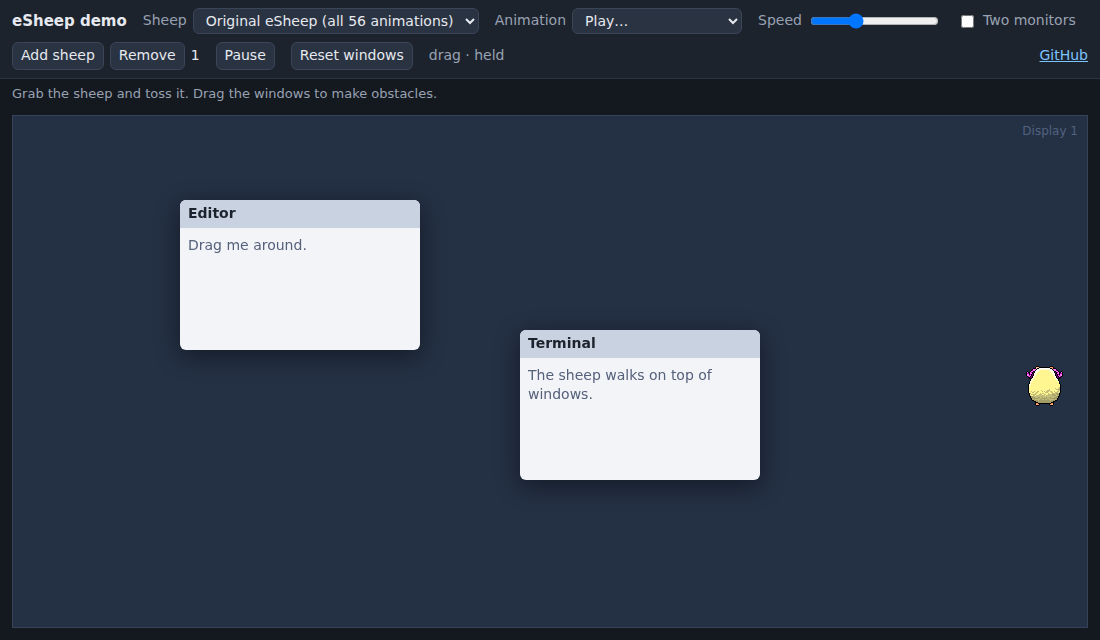
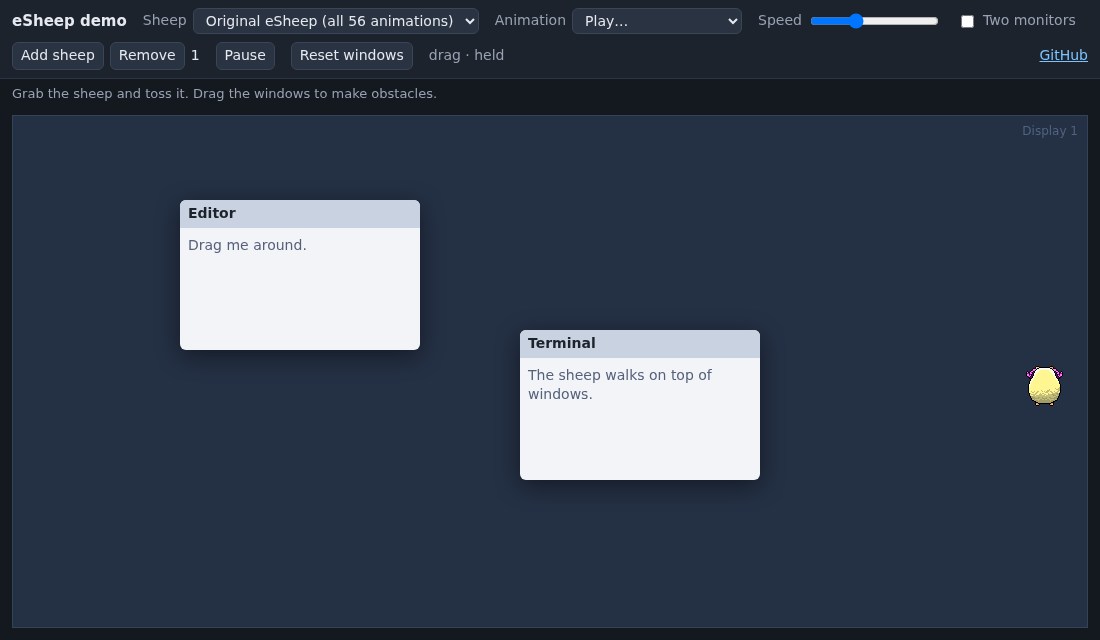
feat: size each sheep window to its sprite

diff --git a/src/web/stage.ts b/src/web/stage.ts
@@ -23,7 +23,10 @@ import {
 import { moveDrag, releaseVelocity, startDrag, type Drag, type Point } from '../core/pointer.js';
 
 /** Size of the transparent window / canvas the sheep is drawn into. */
+/** The bounce sheep's window is a fixed square. */
 export const WINDOW = 128;
+/** Transparent margin around a classic sprite, so tossed pixels are never clipped at the edge. */
+export const PAD = 6;
 /** Classic packs: on-screen px per source px. */
 export const SCALE = 1; // native pixels: the classic art is 40 px and looks wrong blown up
 
@@ -52,6 +55,8 @@ export interface Snapshot {
 }
 
 export interface Stage {
+  /** Side of the square window the sheep draws into (sprite plus a small margin). */
+  windowSize(): number;
   /** Advance by `dtMs` of (unscaled) wall time, redraw and reposition. */
   tick(dtMs: number): void;
   /** True if the canvas pixel at (x, y) is part of the sheep (used for click-through). */
@@ -83,6 +88,8 @@ interface Brain {
   play?(name: string, world: World): void;
   animations?(): string[];
   readonly pad: number;
+  /** Side of the square window / canvas this sheep draws into. */
+  readonly win: number;
 }
 
 const classicBrain = (o: StageOptions, pack: ClassicPack): Brain => {
@@ -90,12 +97,14 @@ const classicBrain = (o: StageOptions, pack: ClassicPack): Brain => {
   const tw = o.sheetSize.width / pack.tilesX;
   const th = o.sheetSize.height / pack.tilesY;
   const cfg: Config = { size: Math.round(tw * SCALE), scale: SCALE };
-  const pad = (WINDOW - cfg.size) / 2;
+  const pad = PAD;
+  const win = cfg.size + 2 * PAD;
   const first = spawn(cp, o.getWorld(), cfg, o.seed);
   let s: SheepState = first.state;
 
   return {
     pad,
+    win,
     pos: () => ({ x: s.x, y: s.y }),
     step: (dtMs, world, prefs) => {
       const others = o.getOthers?.() ?? [];
@@ -113,11 +122,11 @@ const classicBrain = (o: StageOptions, pack: ClassicPack): Brain => {
       s = release(cp, s, world, cfg, v.vx, v.vy).state;
     },
     draw: (ctx) => {
-      ctx.clearRect(0, 0, WINDOW, WINDOW);
+      ctx.clearRect(0, 0, win, win);
       ctx.save();
       ctx.globalAlpha = s.opacity;
       if (s.flipped) {
-        ctx.translate(WINDOW, 0);
+        ctx.translate(win, 0);
         ctx.scale(-1, 1);
       }
       ctx.drawImage(
@@ -150,6 +159,7 @@ const bounceBrain = (o: StageOptions): Brain => {
 
   return {
     pad: 0,
+    win: WINDOW,
     pos: () => ({ x: s.x, y: s.y }),
     step: (dtMs, world, prefs) => {
       const r = bounceUpdate(s, world, WINDOW, prefs.speed, Math.min(dtMs, 50) / 1000);
@@ -192,10 +202,18 @@ export const createStage = (o: StageOptions): Stage => {
     const p = brain.pos();
     o.place(Math.round(p.x - brain.pad), Math.round(p.y - brain.pad));
   };
+  // Size the canvas to the sheep (resizing resets the context, so smoothing is switched off after).
+  const canvas = o.ctx.canvas as HTMLCanvasElement | undefined;
+  if (canvas) {
+    canvas.width = brain.win;
+    canvas.height = brain.win;
+    o.ctx.imageSmoothingEnabled = false;
+  }
   brain.draw(o.ctx);
   place();
 
   return {
+    windowSize: () => brain.win,
     tick: (dtMs) => {
       if (paused) return;
       if (brain.step(dtMs, o.getWorld(), o.getPrefs())) o.onSound?.();

diff --git a/tests/e2e/app.spec.ts b/tests/e2e/app.spec.ts
@@ -47,22 +47,20 @@ test.afterEach(async () => {
 test.describe('sheep window', () => {
   test('is a small, transparent, always-on-top, click-through window', async () => {
     await sheepPage();
-    const info = await app.evaluate(({ BrowserWindow }) => {
-      const w = BrowserWindow.getAllWindows()[0];
-      return {
-        ...w.getBounds(),
-        onTop: w.isAlwaysOnTop(),
-        focusable: w.isFocusable(),
-        resizable: w.isResizable(),
-      };
-    });
-    expect(info).toMatchObject({
-      width: 128,
-      height: 128,
-      onTop: true,
-      focusable: false,
-      resizable: false,
-    });
+    const info = (): Promise<Electron.Rectangle & Record<string, unknown>> =>
+      app.evaluate(({ BrowserWindow }) => {
+        const w = BrowserWindow.getAllWindows()[0];
+        return {
+          ...w.getBounds(),
+          onTop: w.isAlwaysOnTop(),
+          focusable: w.isFocusable(),
+          resizable: w.isResizable(),
+        };
+      });
+    // The default pack is the bounce sheep, which has a fixed 128px window (the renderer sizes it).
+    await expect
+      .poll(info)
+      .toMatchObject({ width: 128, height: 128, onTop: true, focusable: false, resizable: false });
   });
 
   test('exposes a narrow API and no Node to the renderer', async () => {
@@ -88,6 +86,7 @@ test.describe('sheep window', () => {
         'onPrefsChanged',
         'onResume',
         'savePrefs',
+        'setWindowSize',
         'setClickThrough',
       ].sort(),
     );
@@ -192,8 +191,10 @@ test.describe('settings', () => {
       const [primary] = await window.electronAPI.getWorkAreas();
       return primary.y + primary.height;
     });
-    // Classic sheep stands on the bottom of the work area (40px sprite centred in the 128px window: 44px pad above and below).
-    await expect.poll(async () => (await sheepBounds()).y + 84, { timeout: 15_000 }).toBe(bottom);
+    // A classic sheep stands on the bottom of the work area. Its window is the 40px sprite plus a 6px
+    // margin on every side (52px), so the feet are 46px below the window's top.
+    await expect.poll(async () => (await sheepBounds()).y + 46, { timeout: 15_000 }).toBe(bottom);
+    expect(await sheepBounds()).toMatchObject({ width: 52, height: 52 });
   });
 });
 
@@ -243,8 +244,10 @@ test.describe('several sheep', () => {
     await expect
       .poll(async () => (await first.evaluate(() => window.electronAPI.getOtherSheep())).length)
       .toBe(1);
-    const [other] = await first.evaluate(() => window.electronAPI.getOtherSheep());
-    expect(other).toMatchObject({ width: 128, height: 128 });
+    // Both windows are the bounce sheep's fixed 128px square once their renderers have sized them.
+    await expect
+      .poll(async () => (await first.evaluate(() => window.electronAPI.getOtherSheep()))[0]?.width)
+      .toBe(128);
   });
 
   test('the Sheep setting opens that many windows, and every one runs its own sheep', async () => {

diff --git a/src/web/stage.test.ts b/src/web/stage.test.ts
@@ -4,7 +4,7 @@ import { describe, expect, it, vi } from 'vitest';
 import { parsePackXml } from '../main/pack.js';
 import { fakeCtx } from '../test/fakeCanvas.js';
 import { world } from '../test/fixtures.js';
-import { createStage, type StageOptions } from './stage.js';
+import { PAD, createStage, type StageOptions } from './stage.js';
 
 const woolly = parsePackXml(
   fs.readFileSync(
@@ -80,6 +80,20 @@ describe('classic stage', () => {
     const r = stage.rect();
     expect(r).toMatchObject({ x: stage.snapshot().x, y: stage.snapshot().y });
     expect(r?.width).toBe(r?.height);
+  });
+
+  it('sizes its window to the sprite plus a small margin, and the canvas to match', () => {
+    const canvas = { width: 0, height: 0 } as HTMLCanvasElement;
+    const ctx = Object.assign(fakeCtx(), { canvas }) as unknown as CanvasRenderingContext2D;
+    const { stage } = make(woolly, { ctx });
+    const r = stage.rect();
+    expect(stage.windowSize()).toBe((r?.width ?? 0) + 2 * PAD);
+    expect(canvas).toMatchObject({ width: stage.windowSize(), height: stage.windowSize() });
+    expect(ctx.imageSmoothingEnabled).toBe(false);
+  });
+
+  it('keeps the bounce sheep in its fixed 128px window', () => {
+    expect(make(bounce).stage.windowSize()).toBe(128);
   });
 
   it('has no rectangle for the bounce sheep', () => {

diff --git a/src/main/main.ts b/src/main/main.ts
@@ -5,7 +5,8 @@ import { enableAutoLaunch } from './autolaunch';
 import { BUILTIN, listPacks, loadPack } from './pack';
 import { createWindowSource, type NativeWindow, type WindowManagerLike } from './windows';
 
-const SIZE = 128;
+// Windows start small (a classic sprite plus margin) and the renderer resizes them to fit.
+const SIZE = 52;
 // The native module is optional (Windows and macOS), so it is required lazily and may fail to load.
 const loadNative = (): WindowManagerLike => {
   // eslint-disable-next-line @typescript-eslint/no-require-imports
@@ -162,6 +163,15 @@ ipcMain.on('set-click-through', (e, ignore: boolean) => {
 ipcMain.on('move-window', (e, x: number, y: number) => {
   if (Number.isFinite(x) && Number.isFinite(y))
     BrowserWindow.fromWebContents(e.sender)?.setPosition(Math.round(x), Math.round(y));
+});
+ipcMain.on('set-window-size', (e, size: number) => {
+  const win = BrowserWindow.fromWebContents(e.sender);
+  const n = Math.round(clamp(Number(size) || SIZE, 16, 512));
+  if (!win || win.getBounds().width === n) return;
+  // Linux ignores setSize on non-resizable windows, so lift the restriction around the call.
+  win.setResizable(true);
+  win.setSize(n, n);
+  win.setResizable(false);
 });
 ipcMain.on('save-prefs', (_e, prefs: Prefs) => {
   const packs = listPacks(asset(''));

diff --git a/src/app/renderer.ts b/src/app/renderer.ts
@@ -55,6 +55,7 @@ const run = async (): Promise<void> => {
   api.onPrefsChanged((p) => {
     prefs = p;
   });
+  api.setWindowSize(created.windowSize());
   created.setPaused(live.paused);
   live.stage = created;
 
@@ -67,10 +68,9 @@ const run = async (): Promise<void> => {
   setInterval(async () => {
     const mine = live.stage?.rect();
     if (!mine) return;
-    const inset = (128 - mine.width) / 2;
     others = (await api.getOtherSheep()).map((b) => ({
-      x: b.x + inset,
-      y: b.y + inset,
+      x: b.x + (b.width - mine.width) / 2,
+      y: b.y + (b.height - mine.height) / 2,
       width: mine.width,
       height: mine.height,
     }));

diff --git a/src/preload/preload.ts b/src/preload/preload.ts
@@ -5,6 +5,7 @@ const api: ElectronAPI = {
   getWindows: () => ipcRenderer.invoke('get-windows'),
   getWorkAreas: () => ipcRenderer.invoke('get-work-areas'),
   moveWindow: (x, y) => ipcRenderer.send('move-window', x, y),
+  setWindowSize: (size) => ipcRenderer.send('set-window-size', size),
   setClickThrough: (ignore) => ipcRenderer.send('set-click-through', ignore),
   savePrefs: (prefs) => ipcRenderer.send('save-prefs', prefs),
   loadPrefs: () => ipcRenderer.invoke('load-prefs'),

diff --git a/src/types/global.d.ts b/src/types/global.d.ts
@@ -82,6 +82,8 @@ interface ElectronAPI {
   /** Work areas of all displays, primary first. */
   getWorkAreas: () => Promise<Rect[]>;
   moveWindow: (x: number, y: number) => void;
+  /** Resize this sheep's window to fit its sprite. */
+  setWindowSize: (size: number) => void;
   /** Ignore mouse events (click-through) except while the pointer is over the sheep. */
   setClickThrough: (ignore: boolean) => void;
   savePrefs: (prefs: Prefs) => void;

diff --git a/src/demo/demo.ts b/src/demo/demo.ts
@@ -179,6 +179,8 @@ const addSheep = (): void => {
     onSound: () => beep(),
   });
   me = stage;
+  c.style.width = `${stage.windowSize()}px`;
+  c.style.height = `${stage.windowSize()}px`;
   stage.setPaused(paused);
   const sheep: Sheep = { stage, canvas: c };
   attachPointer(sheep);

diff --git a/src/demo/index.html b/src/demo/index.html
@@ -122,8 +122,6 @@
         position: fixed;
         left: 0;
         top: 0;
-        width: 128px;
-        height: 128px;
         z-index: 10;
         pointer-events: none;
         touch-action: none;

diff --git a/docs/decisions.md b/docs/decisions.md
@@ -125,3 +125,14 @@ rectangles; in the demo the flock shares rectangles directly.
   right on one monitor. We undo that (`physicalBounds`) and convert the physical rectangle with
   Electron's `screen.screenToDipRect`, which is correct per display on mixed-DPI desktops.
   None of macOS or DPI has been run on real hardware; the logic is unit-tested with fakes.
+
+## 17. Windows sized to the sprite
+
+Each sheep window used to be a fixed 128 px square around a 40 px sprite, which left the window
+hanging 44 px below the display when the sheep stood on the floor (a problem on platforms that clamp
+windows to the screen, such as macOS) and made twelve sheep twelve large transparent windows. A
+classic sheep's window is now the sprite plus a 6 px margin (`PAD`); the stage sizes its own canvas
+and reports `windowSize()`, and the renderer asks the main process to resize the window
+(`set-window-size`, lifting `resizable` around the call because Linux ignores `setSize` otherwise).
+The bounce sheep keeps its fixed 128 px square. Windows start at 52 px, so the usual case needs no
+resize. Other sheep's rectangles are derived from their window bounds, centred.

diff --git a/README.md b/README.md
@@ -49,7 +49,8 @@ windows and an optional second monitor. Grab the sheep, fling it, and watch it l
 
 ## Features
 
-- Transparent, always-on-top, click-through window (128 × 128 px) that only catches the mouse over the
+- Transparent, always-on-top, click-through window, one per sheep and sized to it (52 × 52 px for the 40 px classic sprite), that
+  only catches the mouse over the
   sheep's own pixels.
 - **Grab and toss**: pick the sheep up, drop it, or flick it. A throw uses your pointer's recent
   velocity, then the sheep tumbles, bounces off walls, windows and floors, and lands (harder throws
